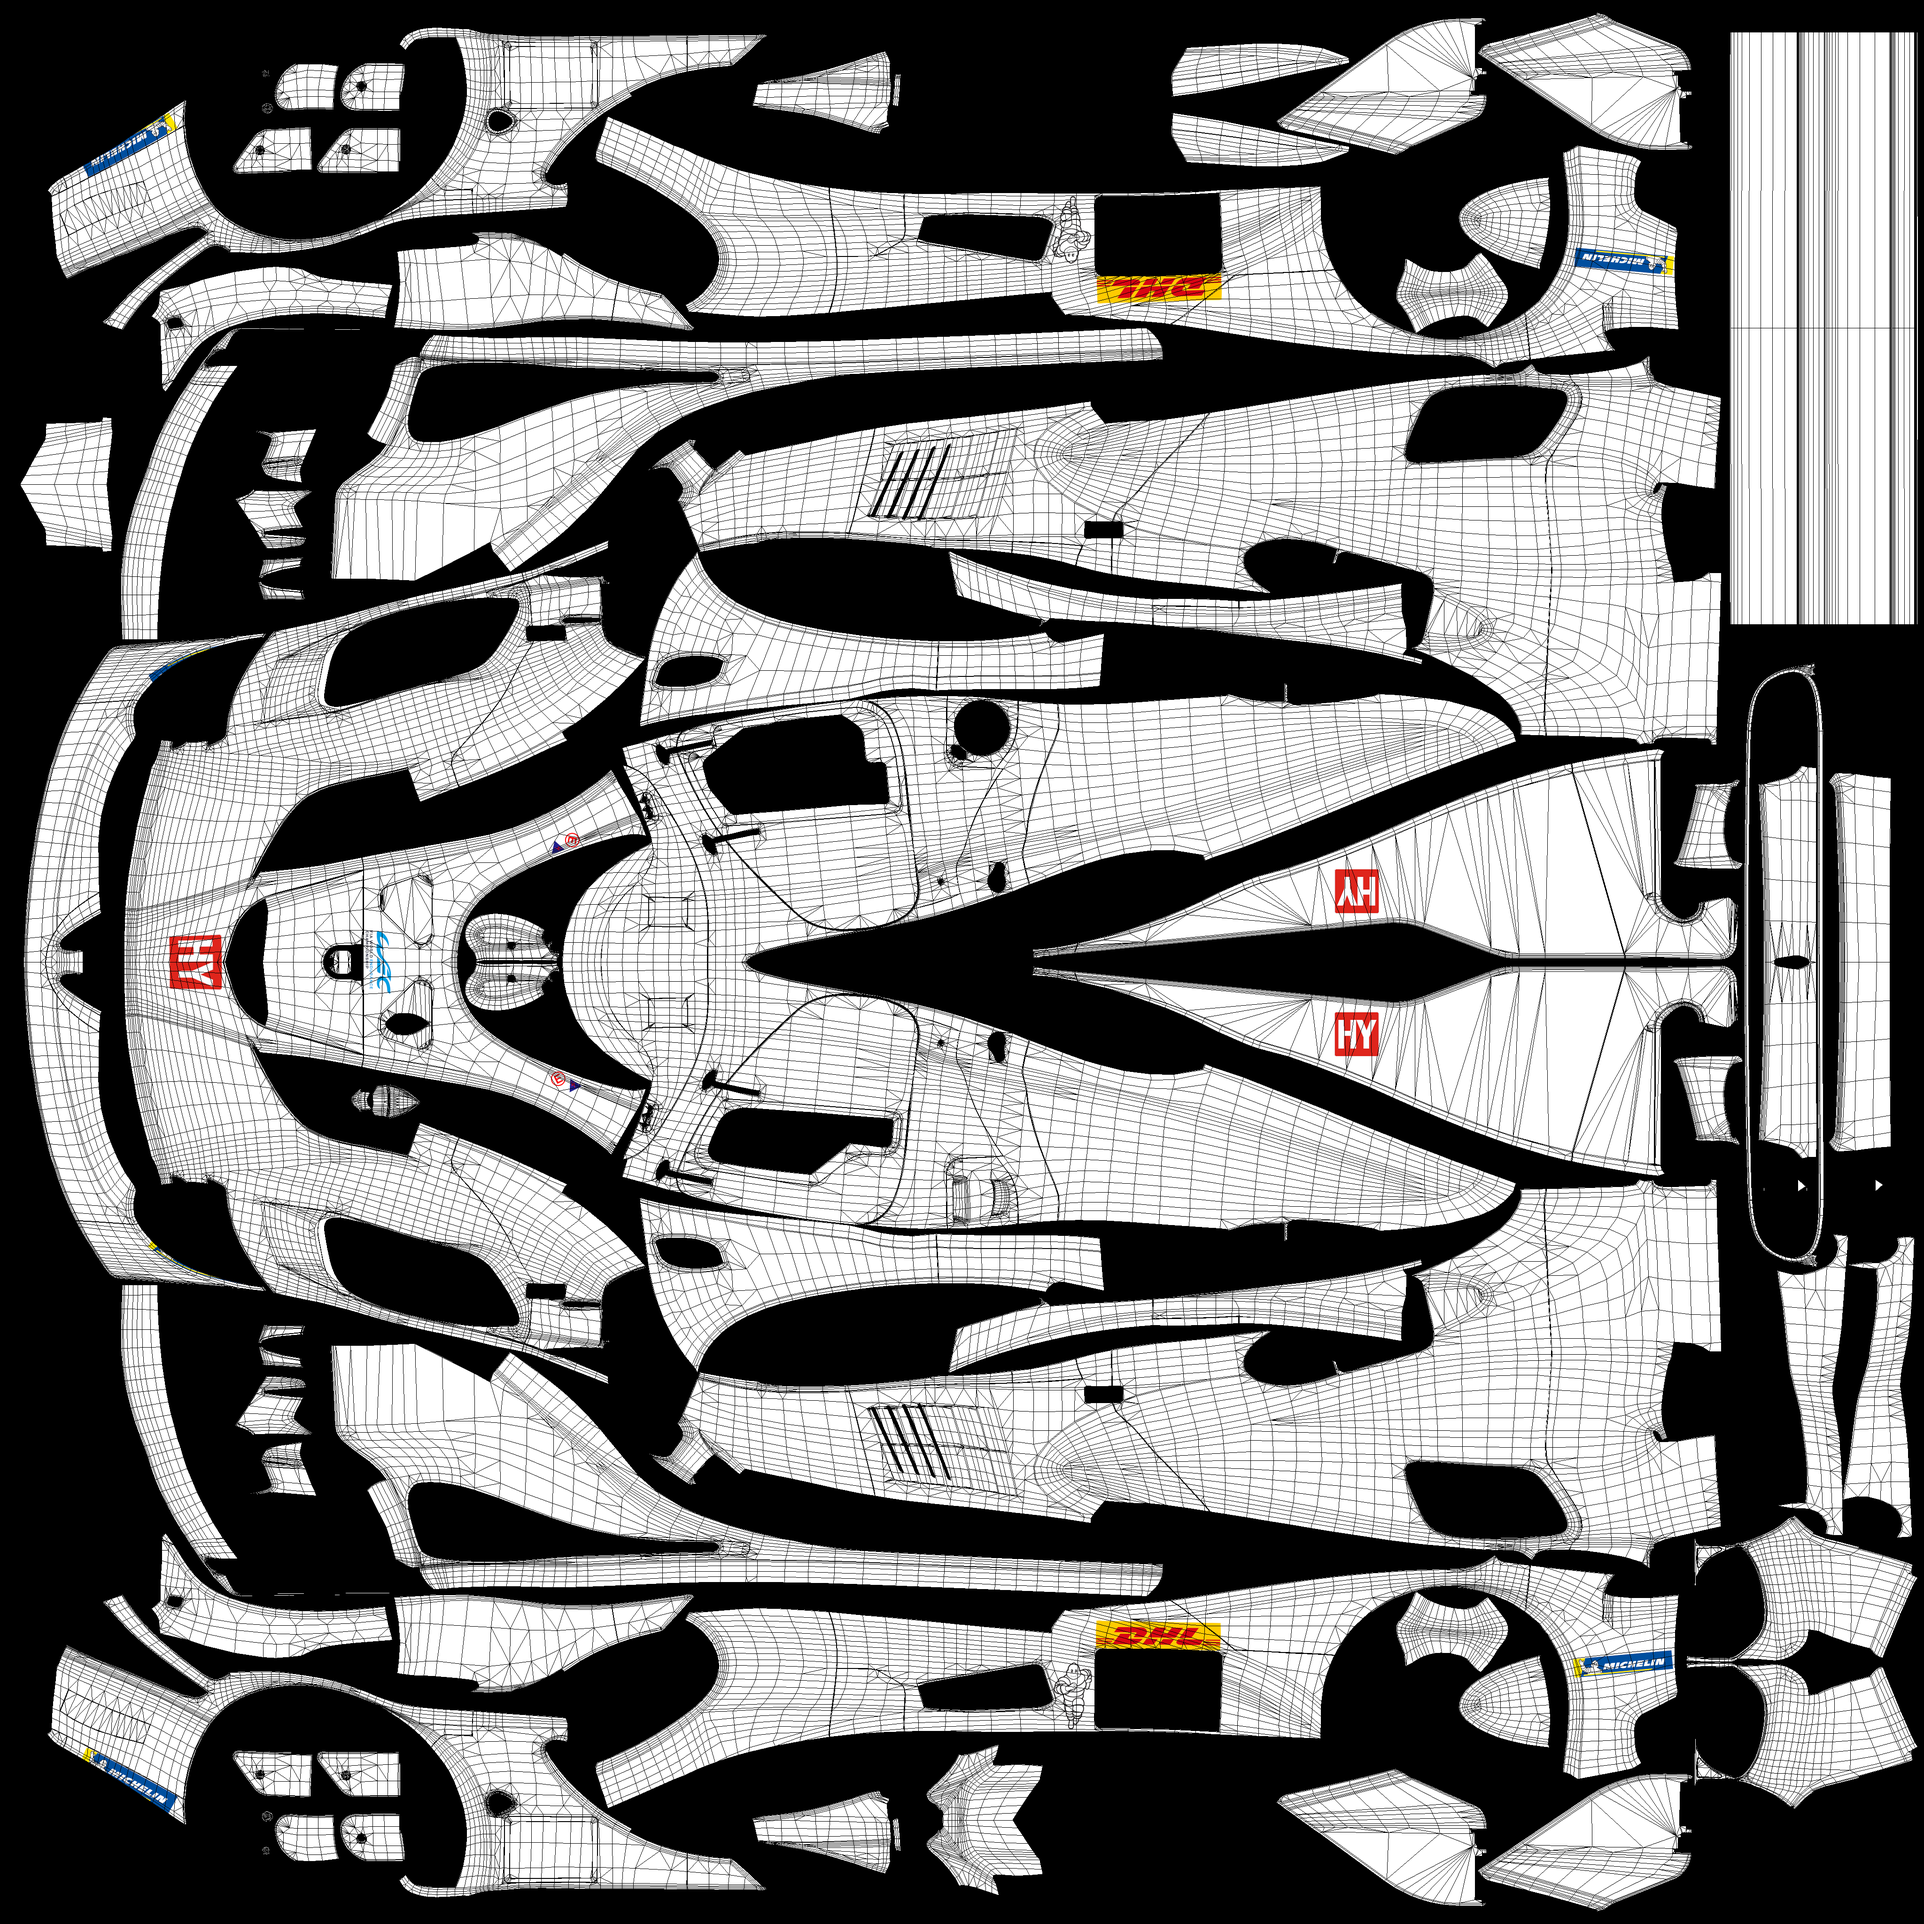
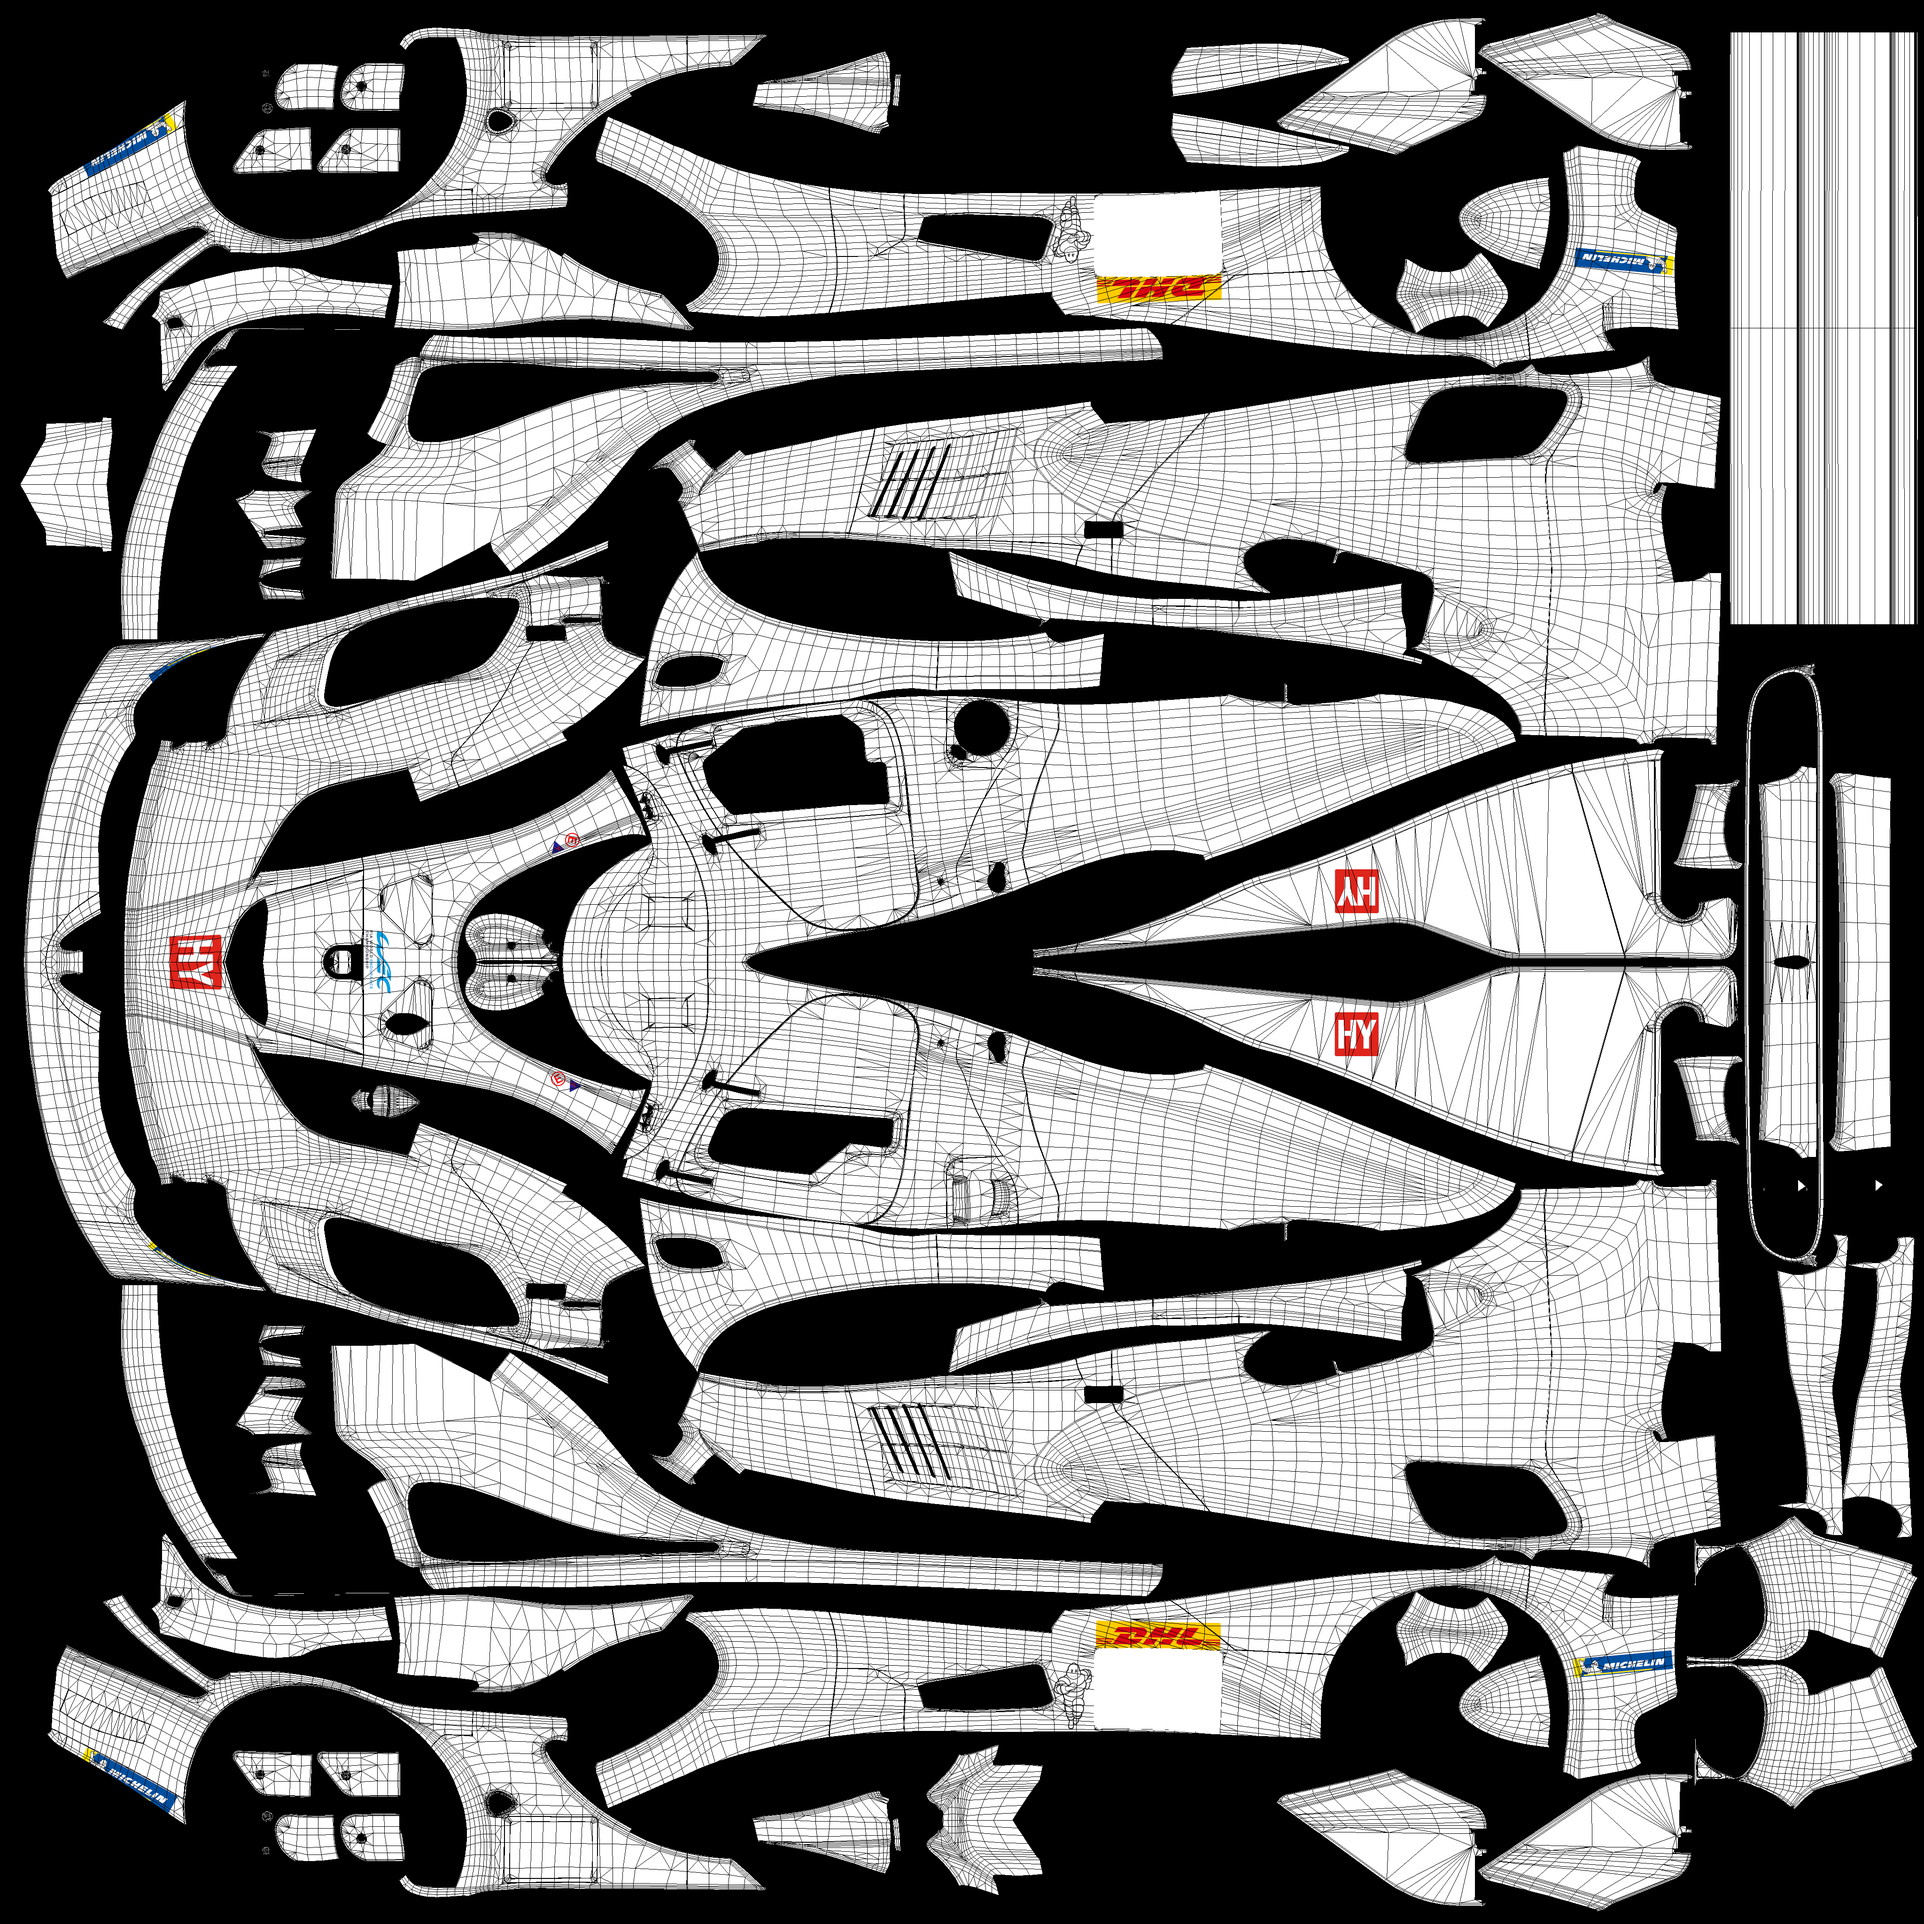
Restore the Genesis GMR-001 roof-scoop panels in the guide and body mask
The rounded panel above each DHL board was missing from the body outline, so the
guide drew it black and the base colour skipped it. Colour placed there does show
on the car in game. Both holes are flood-filled in the UV guide and the mask by a
new, idempotent repair in scripts/patch-sheets.mjs.

Claude-Session: https://claude.ai/code/session_01HdWe5q6etevq8D1CwZWYZa

Changed region(s): [[0.5625, 0.8438, 0.6562, 0.9062], [0.5625, 0.0938, 0.6562, 0.1562]]

diff --git a/README.md b/README.md
@@ -173,8 +173,8 @@ Known limitations:
 ### Repairs without a PSD
 
 `scripts/patch-sheets.mjs` fixes the defects that can be repaired exactly from the
-shipped assets: the Ferrari 499P's doubled nose tag, and the ADESS AD25's missing ELMS
-plates. It is idempotent, and it writes nothing until it has checked that every pixel
+shipped assets: the Ferrari 499P's doubled nose tag, the ADESS AD25's missing ELMS
+plates, and the Genesis GMR-001's missing roof-scoop panels. It is idempotent, and it writes nothing until it has checked that every pixel
 outside the repaired areas is unchanged. If you re-extract one of those cars from its
 PSD, re-run the script; it should report `already clean`.
 

diff --git a/CHANGELOG.md b/CHANGELOG.md
@@ -2,6 +2,17 @@
 
 All notable changes to the LMU Livery Design Tool.
 
+## Unreleased — 19 November 2026
+
+### Fixed
+
+- **Genesis GMR-001: the roof-scoop panel was missing from the template.** On both flanks,
+  the rounded panel directly above the DHL board had been left out of the body outline. The
+  guide drew it solid black and the base colour skipped it, so it looked unpaintable. It is
+  a real panel, though: colour placed there shows on the car in game. It is now filled in
+  both the UV guide and the body mask. The sticker sheet was already empty there and is
+  unchanged. The repair is in `scripts/patch-sheets.mjs`.
+
 ## Unreleased — 7 November 2026
 
 ### Fixed
